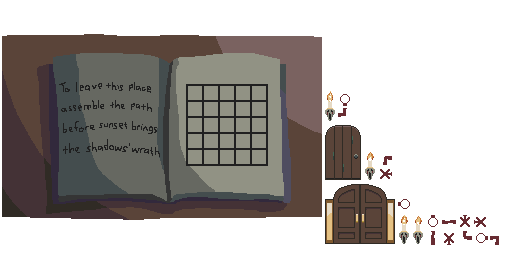
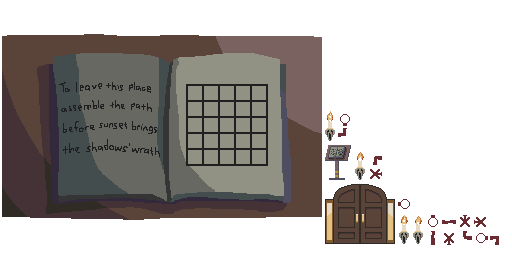
lining up start and end textures

Changed region(s): [[0.625, 0.3438, 0.7812, 0.7188]]

diff --git a/core/src/main/java/com/distraction/s20jam2024/screen/PlayScreen.java b/core/src/main/java/com/distraction/s20jam2024/screen/PlayScreen.java
@@ -95,12 +95,15 @@ public class PlayScreen extends Screen {
                     List<Item> items = new ArrayList<>();
                     for (MapObject object : itemLayer.getObjects()) {
                         MapProperties props = object.getProperties();
-                        items.add(new Item(
-                            context,
-                            Item.ItemType.parse(props.get("type", String.class)),
-                            props.get("x", Float.class) + col * Constants.WIDTH,
-                            props.get("y", Float.class) + row * Constants.HEIGHT
-                        ));
+                        Item.ItemType itemType = Item.ItemType.parse(props.get("type", String.class));
+                        if (itemType != null) {
+                            items.add(new Item(
+                                context,
+                                itemType,
+                                props.get("x", Float.class) + col * Constants.WIDTH,
+                                props.get("y", Float.class) + row * Constants.HEIGHT
+                            ));
+                        }
                     }
                     rooms[row][col] = new Room(roomType, groupIndex, walls, items);
 

diff --git a/core/src/main/java/com/distraction/s20jam2024/entity/Item.java b/core/src/main/java/com/distraction/s20jam2024/entity/Item.java
@@ -26,7 +26,7 @@ public class Item extends Entity {
                     return itemType;
                 }
             }
-            throw new IllegalArgumentException("unknown item " + type);
+            return null;
         }
     }
 

diff --git a/core/src/main/java/com/distraction/s20jam2024/screen/MapScreen.java b/core/src/main/java/com/distraction/s20jam2024/screen/MapScreen.java
@@ -45,7 +45,7 @@ public class MapScreen extends Screen {
         }
     }
 
-    private static final int MAX_LENGTH = 8;
+    private static final int MAX_LENGTH = 4;
 
     private final TextureRegion bg;
 
